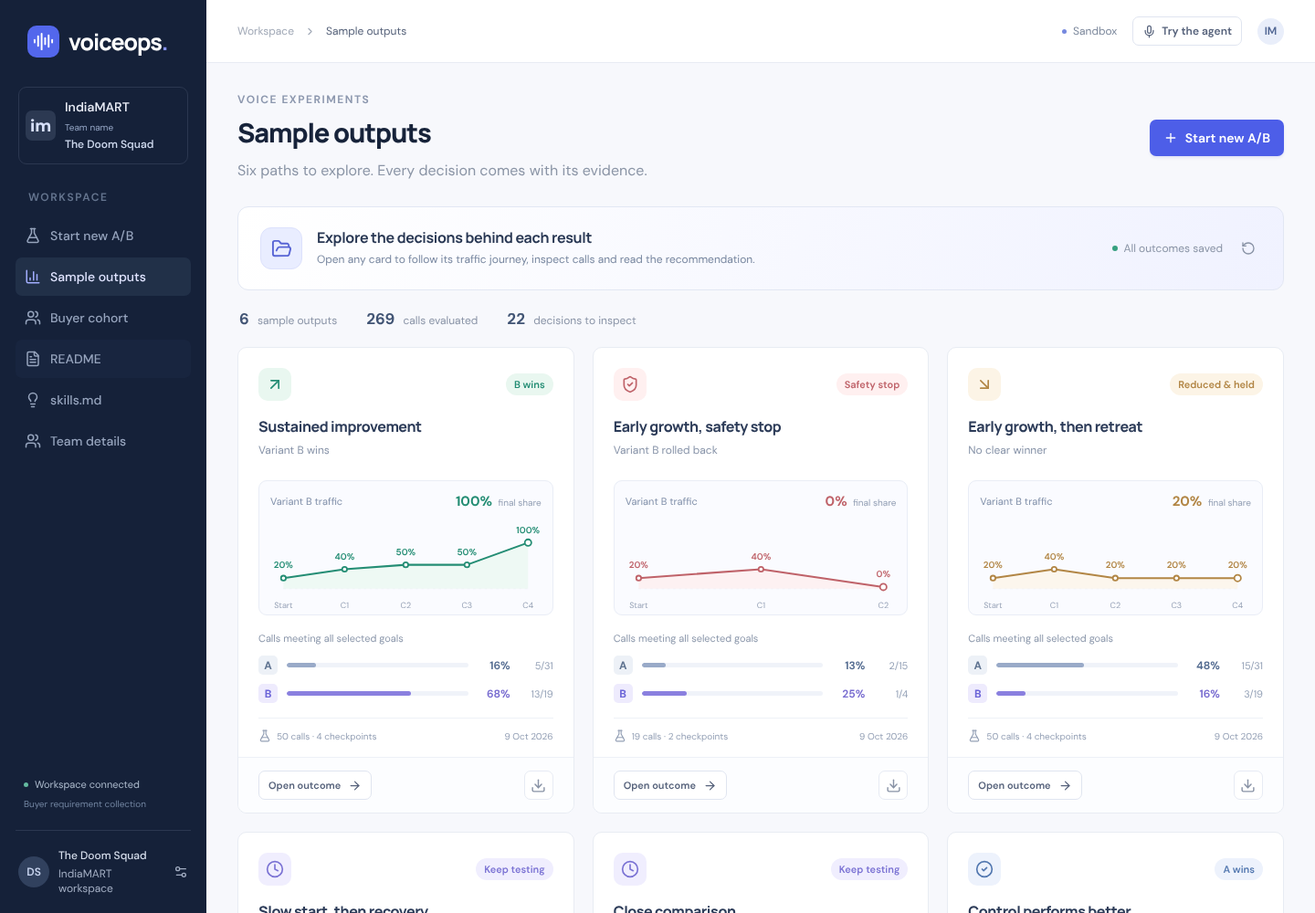
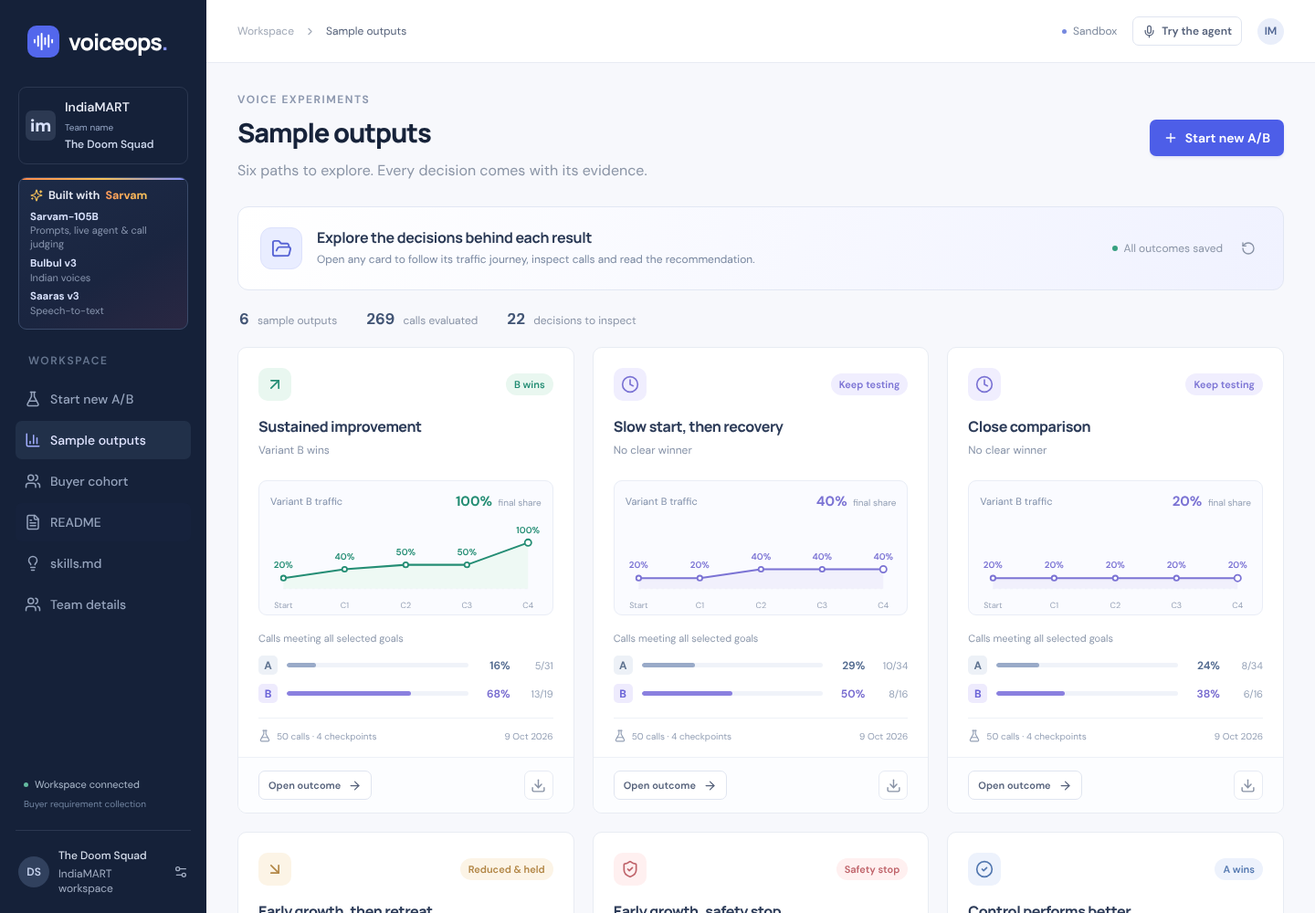
Dedupe sample outputs, combine prompt chips, guide the run, show Sarvam badge
- Sample outputs shows one card per scenario, keeping the earliest saved
  run (the prepared sample), with B wins first. New sandbox runs rotate
  through the same scenarios and were listed as duplicates. The API now
  returns finished experiments oldest first so the prepared samples stay
  in the 25-row window.
- Suggestion chips toggle and combine into one challenger.
- Starting an experiment scrolls to Experiment activity, then to the
  traffic chart at the first checkpoint, then to Traffic decisions when
  the test ends, with an animated button to Results & recommendation.
  Scrolling by hand stops the guidance.
- A "Built with Sarvam" card sits under the team card in the sidebar,
  and a compact pill shows in the top bar on phones.

Claude-Session: https://claude.ai/code/session_01SwVyt2ijvLN4WH9YwcgAyJ

diff --git a/dashboard/src/main.tsx b/dashboard/src/main.tsx
@@ -2,7 +2,7 @@ import React, {useState,useEffect,useRef,lazy,Suspense} from 'react';
 import {createRoot} from 'react-dom/client';
 import {Activity,ArrowDown,ArrowRight,ArrowUp,ArrowUpRight,AudioLines,BarChart3,Check,CheckCircle2,ChevronDown,ChevronRight,Clock,Download,FlaskConical,Footprints,Headphones,Lightbulb,Loader2,Mic,MoreHorizontal,Package,Pause,Play,Plus,Radio,RotateCcw,Search,Send,ShieldCheck,Shirt,Sparkles,Square,Users,Volume2,X,Zap,Armchair,Droplets,FileText,Settings2,AlertTriangle} from 'lucide-react';
 import {products,personas,baselinePrompt,fixture,aggregate,decide,batchPlan,buyerGoals,defaultGoals,defaultRollout,goalLabel,callMeetsGoal,type GoalSelection,type RolloutOptions} from '../shared/domain.mjs';
-import {preparedPrompt,promptPresets} from '../shared/prompt-presets.mjs';
+import {preparedCombination,selectedPresetIds} from '../shared/prompt-presets.mjs';
 import {selectDemoScenario} from '../shared/demo-scenarios.mjs';
 import '@fontsource-variable/dm-sans';
 import '@fontsource-variable/manrope';
@@ -15,8 +15,10 @@ import {CallTable} from './DecisionAudit';
 import {experimentPDF} from '../shared/report-pdf.mjs';
 import type {ReportRun} from '../shared/report-pdf.mjs';
 import {SavedOutcomes,type SavedOutcome} from './SavedOutcomes';
+import {useRunTour,ResultsJump} from './RunTour';
 import {TeamDetails,team} from './TeamDetails';
 import './workspace-guide.css';
+import './sarvam-card.css';
 const WorkspaceGuide=lazy(()=>import('./WorkspaceGuide').then(m=>({default:m.WorkspaceGuide})));
 import {advanceExperiment as advance,completeExperiment} from '../shared/experiment-run.mjs';
 import {RolloutChart,RolloutJourney,GoalMetrics,Results} from './ExperimentDetails';
@@ -55,6 +57,7 @@ function App(){
   const [viewPrompt,setViewPrompt]=useState<'A'|'B'|null>(null);
   const [frozenReview,setFrozenReview]=useState(false);
   const saves=useRef(Promise.resolve());
+  const tourRun=useRef<string|null>(null);
   const saveRevision=useRef(0);
   const restoredId=useRef<string|null>(null);
   const prepared=personas.flatMap(p=>[fixture(p.id,'A'),fixture(p.id,'B'),fixture(p.id,'B','regression')]);
@@ -87,15 +90,17 @@ function App(){
   function start(){
     if(locked)return;if(!ready){setError('Calls are still being prepared. Please try again shortly.');return;}if(initial>maximum){setError("Initial B traffic must be at or below the maximum allocation.");return;}if(!promptA.trim()||!promptB.trim()){setError('Both prompt variants need content.');return;}if(Array.isArray(goal)&&!goal.length){setError('Select at least one collection goal.');return;}
     const preset=selectDemoScenario(location.search);restoredId.current=null;
-    setError('');const run:Experiment={id:crypto.randomUUID(),name:preset.name,scenario:preset.id,status:'running',calls:[],decisions:[],allocation:initial,initial,maximum,automatic,round:0,queue:batchPlan(0,initial,preset.id,preset.seed),cursor:0,progress:0,promptA,promptB,improvement,source,goal,rollout:{...rollout},windowHours,seed:preset.seed,startedAt:new Date().toISOString(),endsAt:new Date(Date.now()+windowHours*3600000).toISOString()};setExp(run);setStep(3);navigate('experiments');
+    setError('');const run:Experiment={id:crypto.randomUUID(),name:preset.name,scenario:preset.id,status:'running',calls:[],decisions:[],allocation:initial,initial,maximum,automatic,round:0,queue:batchPlan(0,initial,preset.id,preset.seed),cursor:0,progress:0,promptA,promptB,improvement,source,goal,rollout:{...rollout},windowHours,seed:preset.seed,startedAt:new Date().toISOString(),endsAt:new Date(Date.now()+windowHours*3600000).toISOString()};tourRun.current=run.id;setExp(run);setStep(3);navigate('experiments');
     if(status?.database==='ready')for(const [label,content]of [['Variant A',promptA],['Variant B',promptB]])api('prompts/save',{label,content,improvement:label==='Variant B'?improvement:'',model:source==='Sarvam'?model:null}).catch(e=>setError(e.message));
   }
   const startRef=useRef(start);startRef.current=start;
   useEffect(()=>{const key=(e:KeyboardEvent)=>{const el=e.target as HTMLElement;if(e.key==='Enter'&&page==='experiments'&&step===2&&!['INPUT','TEXTAREA','SELECT','BUTTON','SUMMARY'].includes(el.tagName)&&!live&&!selected&&!viewPrompt){e.preventDefault();startRef.current();}};window.addEventListener('keydown',key);return()=>window.removeEventListener('keydown',key);},[page,step,live,selected,viewPrompt]);
   useEffect(()=>{window.scrollTo({top:0,behavior:'instant'});if(page==='experiments')document.querySelector<HTMLElement>('.stage-title')?.focus({preventScroll:true});},[step,page]);
   useEffect(()=>{const ctx=(document as any).modelContext;if(!ctx?.registerTool)return;const lifecycle=new AbortController();Promise.resolve(ctx.registerTool({name:'get_experiment_results',description:'Read the current synthetic replay experiment metrics and rollout decisions.',inputSchema:{type:'object',properties:{},additionalProperties:false},annotations:{readOnlyHint:true},execute:()=>({status:exp?.status||'ready',synthetic:true,calls:exp?.calls.length||0,A:aggregate(exp?.calls||[],'A',exp?.goal||goal),B:aggregate(exp?.calls||[],'B',exp?.goal||goal),decisions:exp?.decisions||[]})},{signal:lifecycle.signal})).catch(()=>{});return()=>lifecycle.abort();},[exp]);
-  async function generate(){setGenerating(true);setError('');try{const preset=promptPresets.find(p=>p.request===improvement);if(preset){useSuggestion(preset.id);return;}const d=await api('prompts/generate',{baseline:promptA,improvement,model});setPromptB(d.prompt);setCandidateRequest(improvement);setChanges(Array.isArray(d.changes)?d.changes:[]);setHypothesis(d.hypothesis||'');setSource('Sarvam');setNotice('Variant B generated. Review the changes before starting.');}catch(e){setError((e as Error).message);}finally{setGenerating(false);}}
-  function useSuggestion(id:string){const preset=preparedPrompt(id,promptA);setPromptB(preset.prompt);setImprovement(preset.request);setCandidateRequest(preset.request);setChanges(preset.changes);setHypothesis(preset.hypothesis);setSource('Saved suggestion');setError('');}
+  async function generate(){setGenerating(true);setError('');try{const presetIds=selectedPresetIds(improvement);if(presetIds.length&&preparedCombination(presetIds,promptA).request===improvement){applySuggestions(presetIds);return;}const d=await api('prompts/generate',{baseline:promptA,improvement,model});setPromptB(d.prompt);setCandidateRequest(improvement);setChanges(Array.isArray(d.changes)?d.changes:[]);setHypothesis(d.hypothesis||'');setSource('Sarvam');setNotice('Variant B generated. Review the changes before starting.');}catch(e){setError((e as Error).message);}finally{setGenerating(false);}}
+  function applySuggestions(ids:string[]){setError('');if(!ids.length){setPromptB('');setImprovement('');setCandidateRequest('');setChanges([]);setHypothesis('');setSource('Draft');return;}const preset=preparedCombination(ids,promptA);setPromptB(preset.prompt);setImprovement(preset.request);setCandidateRequest(preset.request);setChanges(preset.changes);setHypothesis(preset.hypothesis);setSource('Saved suggestion');}
+  // Chips toggle: each click adds or removes one reviewed suggestion from the current challenger.
+  function useSuggestion(id:string){const current=promptB.trim()?selectedPresetIds(candidateRequest):[];applySuggestions(current.includes(id)?current.filter(x=>x!==id):[...current,id]);}
   function newDraft(){if(locked)return;setPromptB('');setImprovement('');setCandidateRequest('');setChanges([]);setHypothesis('');setSource('Draft');setStep(1);setAllCallsOpen(false);setError('');}
   function openPage(next:Page){if(next==='experiments')newDraft();navigate(next);}
   function openPrompt(v:'A'|'B',frozen=false){setFrozenReview(frozen);setViewPrompt(v);}
@@ -115,11 +120,12 @@ function App(){
   }
   const calls=exp?.calls||[],a=aggregate(calls,'A',exp?.goal||goal),b=aggregate(calls,'B',exp?.goal||goal),total=aggregate(calls,undefined,exp?.goal||goal);
   const current=exp?.status==='running'||exp?.status==='paused'?exp.queue[exp.cursor]:null;
+  const tour=useRunTour(exp?.id,!!exp&&tourRun.current===exp.id&&step===3,exp?.decisions.length||0,exp?.status);
   const shownCalls=calls.filter(c=>(filter==='all'||c.product.id===filter)&&(variantFilter==='all'||c.variant===variantFilter)&&`${c.persona.name} ${c.product.name}`.toLowerCase().includes(query.toLowerCase()));
   const nav=[{id:'experiments',label:'Start new A/B',icon:FlaskConical},{id:'saved',label:'Sample outputs',icon:BarChart3},{id:'cohort',label:'Buyer cohort',icon:Users},{id:'readme',label:'README',icon:FileText},{id:'skills',label:'skills.md',icon:Lightbulb},{id:'team',label:'Team details',icon:Users}];
   return <div className="app-shell">
-    <aside className="sidebar"><a className="brand" href="#" onClick={e=>{e.preventDefault();openPage('experiments');}}><span className="brand-icon"><AudioLines size={23}/></span><span>voiceops<span className="brand-dot">.</span></span></a><div className="workspace"><div className="im-mark">im</div><div><strong>IndiaMART</strong><span className="workspace-team"><small>Team name</small><b>{team.name}</b></span></div><ChevronDown size={14}/></div><div className="nav-caption">WORKSPACE</div><nav>{nav.map(n=><button key={n.id} className={`nav-item ${page===n.id?'selected':''}`} aria-label={n.label} title={n.label} onClick={()=>openPage(n.id as Page)}><n.icon size={18}/>{n.label}</button>)}</nav><div className="sidebar-bottom"><div className="workspace-health"><span><i/> Workspace connected</span><small>Buyer requirement collection</small></div><div className="profile"><span className="avatar">DS</span><div><strong>{team.name}</strong><span>IndiaMART workspace</span></div><Settings2 size={16}/></div></div></aside>
-    <div className="main-shell"><header className="topbar"><div className="breadcrumb">Workspace <ChevronRight size={13}/><span>{nav.find(n=>n.id===page)?.label}</span></div><div className="top-actions"><span className="environment"><i/> Sandbox</span><button className="button secondary small" onClick={()=>setLive(true)}><Mic size={15}/>Try the agent</button><span className="avatar tiny">IM</span></div></header>
+    <aside className="sidebar"><a className="brand" href="#" onClick={e=>{e.preventDefault();openPage('experiments');}}><span className="brand-icon"><AudioLines size={23}/></span><span>voiceops<span className="brand-dot">.</span></span></a><div className="workspace"><div className="im-mark">im</div><div><strong>IndiaMART</strong><span className="workspace-team"><small>Team name</small><b>{team.name}</b></span></div><ChevronDown size={14}/></div><button className="sarvam-card" onClick={()=>openPage('readme')} aria-label="Built with Sarvam. Open the README to see how VoiceOps uses Sarvam."><span className="sarvam-card-title"><Sparkles size={14}/>Built with <b>Sarvam</b></span><span className="sarvam-card-row"><i>Sarvam-105B</i>Prompts, live agent &amp; call judging</span><span className="sarvam-card-row"><i>Bulbul v3</i>Indian voices</span><span className="sarvam-card-row"><i>Saaras v3</i>Speech-to-text</span></button><div className="nav-caption">WORKSPACE</div><nav>{nav.map(n=><button key={n.id} className={`nav-item ${page===n.id?'selected':''}`} aria-label={n.label} title={n.label} onClick={()=>openPage(n.id as Page)}><n.icon size={18}/>{n.label}</button>)}</nav><div className="sidebar-bottom"><div className="workspace-health"><span><i/> Workspace connected</span><small>Buyer requirement collection</small></div><div className="profile"><span className="avatar">DS</span><div><strong>{team.name}</strong><span>IndiaMART workspace</span></div><Settings2 size={16}/></div></div></aside>
+    <div className="main-shell"><header className="topbar"><div className="breadcrumb">Workspace <ChevronRight size={13}/><span>{nav.find(n=>n.id===page)?.label}</span></div><div className="top-actions"><button className="sarvam-pill" onClick={()=>openPage('readme')} aria-label="Built with Sarvam. Open the README."><Sparkles size={13}/><span className="sarvam-pill-lead">Built with</span><b>Sarvam</b></button><span className="environment"><i/> Sandbox</span><button className="button secondary small" onClick={()=>setLive(true)}><Mic size={15}/>Try the agent</button><span className="avatar tiny">IM</span></div></header>
     <main><div className="page-heading"><div><div className="eyebrow">{page==='readme'||page==='skills'?'PRODUCT GUIDES':page==='team'?'WORKSPACE TEAM':'VOICE EXPERIMENTS'}</div><h1>{page==='experiments'?(step===3?'Experiment report':'Start new A/B'):page==='saved'?'Sample outputs':page==='cohort'?'Buyer cohort':page==='readme'?'README':page==='skills'?'skills.md':'Team details'}</h1><p>{page==='experiments'?(step===3?exp?.name:'Improve requirement collection, one experiment at a time.'):page==='saved'?'Six paths to explore. Every decision comes with its evidence.':page==='cohort'?'Buyers and product preferences in your test audience.':page==='readme'?'Your guide to creating, running and reviewing a voice experiment.':page==='skills'?'Product design decisions, architecture and the tools behind VoiceOps.':'Meet The Doom Squad, the team behind VoiceOps.'}</p></div><div className="heading-actions">{page==='experiments'?(step===3?<button className="button secondary" disabled={locked} onClick={newDraft}><Plus size={16}/>New experiment</button>:<span className="experiment-heading-note"><FlaskConical size={16}/>Requirement recovery</span>):<button className="button primary" onClick={()=>openPage('experiments')}><Plus size={16}/>{locked?'Open experiment':'Start new A/B'}</button>}</div></div>
     {error&&<div className="banner error"><AlertTriangle size={17}/><span>{error}</span><button onClick={()=>setError('')} aria-label="Dismiss error"><X size={16}/></button></div>}
     {status?.database==='unavailable'&&<div className="banner setup"><Activity size={17}/><span>Supabase setup pending. Run <strong>dashboard/supabase/schema.sql</strong> in the SQL Editor. Replay is ready; saving needs the tables.</span><button className="text-button" onClick={refresh}>Check again</button></div>}
@@ -132,15 +138,16 @@ function App(){
       <RunHeading status={exp.status} calls={calls.length} goal={exp.goal} initial={exp.initial} onReview={v=>openPrompt(v,true)}/>
 
       <GoalMetrics calls={calls} goal={exp?.goal||goal}/>
-      <div className="run-monitor-grid"><section className="panel monitor"><div className="panel-heading"><div className="heading-inline"><h2>Experiment activity</h2>{exp?.status==='running'&&<span className="badge green"><i/>Running</span>}</div><div className="monitor-actions">{locked&&<button className="icon-button" aria-label={exp?.status==='paused'?'Resume experiment':'Pause experiment'} onClick={()=>setExp(e=>e?{...e,status:e.status==='running'?'paused':'running'}:e)}>{exp?.status==='paused'?<Play size={16}/>:<Pause size={16}/>}</button>}</div></div>
+      <div className="run-monitor-grid"><section id="experiment-activity" className="panel monitor"><div className="panel-heading"><div className="heading-inline"><h2>Experiment activity</h2>{exp?.status==='running'&&<span className="badge green"><i/>Running</span>}</div><div className="monitor-actions">{locked&&<button className="icon-button" aria-label={exp?.status==='paused'?'Resume experiment':'Pause experiment'} onClick={()=>setExp(e=>e?{...e,status:e.status==='running'?'paused':'running'}:e)}>{exp?.status==='paused'?<Play size={16}/>:<Pause size={16}/>}</button>}</div></div>
       <div className="live-call">{current?<><span className={`call-avatar ${current.variant==='B'?'purple':''}`}><ProductIcon productId={current.product.id} size={22}/></span><div><strong>{current.persona.name}</strong><span>{current.product.name} · {current.persona.city}</span></div><span className={`variant-tag ${current.variant==='A'?'a':'b'}`}>{current.variant}</span><div className="live-call-wave"><Wave active={exp?.status==='running'}/><span>{(exp?.progress||0)<25?'Connecting…':(exp?.progress||0)<100?(current.answered?'Conversation in progress…':'Ringing · no answer…'):'Checking goals…'}</span></div></>:<><span className="call-avatar"><Headphones size={22}/></span><div><strong>{exp?.status==='completed'?'Test complete':'Ready to begin'}</strong><span>{exp?.status==='completed'?`${calls.length} calls evaluated`:'Start to replay prepared conversations from both variants'}</span></div><Wave/></>}</div>
       <CallTable calls={calls.slice(-5).reverse()} allCalls={calls} goal={exp.goal} onSelect={setSelected}/><div className="panel-footer"><span>{calls.length} calls evaluated <span className="dot-separator">·</span> {sync}</span><button className="text-button" aria-expanded={allCallsOpen} onClick={()=>setAllCallsOpen(!allCallsOpen)}>{allCallsOpen?'Hide call list':'View all calls'}</button></div></section>
       <aside className="panel run-pulse"><div className="panel-heading"><h2>Experiment status</h2><span className={`badge ${exp.status==='running'?'green':''}`}><i/>{exp.status==='completed'?'Complete':exp.status==='paused'?'Paused':'Running'}</span></div><div className="pulse-progress"><strong>{calls.length}</strong><p>calls evaluated</p><progress value={calls.length} max="50"/></div><div className="pulse-variants"><div><span className="variant-tag a">A</span><span>Successful calls</span><strong>{a.goals}<small> / {a.count}</small></strong></div><div><span className="variant-tag b">B</span><span>Successful calls</span><strong>{b.goals}<small> / {b.count}</small></strong></div></div><div className="pulse-facts"><div><FlaskConical size={16}/><span>Rollout</span><strong>{exp.automatic?'Automatic':'Review first'}</strong></div><div><ShieldCheck size={16}/><span>Safety</span><strong>{total.violations?'B stopped':'No issues'}</strong></div></div><div className="pulse-next"><span className="stage-kicker">LATEST DECISION</span><strong>{exp.decisions.at(-1)?.title||'Collecting results'}</strong><p>{exp.decisions.at(-1)?.reason||'Waiting for enough calls to compare A and B.'}</p></div></aside></div>
       {allCallsOpen&&<section id="all-experiment-calls" className="panel experiment-all-calls" aria-label="All experiment calls"><div className="panel-heading"><div><h2>All experiment calls</h2><p>Inspect every buyer, assignment and selected goal.</p></div><div className="table-filters"><label className="search-box"><Search size={15}/><input aria-label="Search calls" placeholder="Search buyer or product" value={query} onChange={e=>setQuery(e.target.value)}/></label><select aria-label="Filter calls by product" value={filter} onChange={e=>setFilter(e.target.value)}><option value="all">All products</option>{products.map(p=><option key={p.id} value={p.id}>{p.name}</option>)}</select><select aria-label="Filter calls by variant" value={variantFilter} onChange={e=>setVariantFilter(e.target.value)}><option value="all">Both variants</option><option>A</option><option>B</option></select><button className="icon-button" aria-label="Close call list" onClick={()=>setAllCallsOpen(false)}><X size={16}/></button></div></div><CallTable calls={[...shownCalls].reverse()} allCalls={calls} goal={exp.goal} onSelect={setSelected}/></section>}
-      <div className="run-section-heading"><div><span className="stage-kicker">THE ROLLOUT</span><h2>Traffic allocation</h2><p>How B’s target changed as the evidence grew.</p></div><span className="badge purple">{exp.decisions.length} / 4 checkpoints</span></div>
+      <div id="traffic-allocation" className="run-section-heading"><div><span className="stage-kicker">THE ROLLOUT</span><h2>Traffic allocation</h2><p>How B’s target changed as the evidence grew.</p></div><span className="badge purple">{exp.decisions.length} / 4 checkpoints</span></div>
       <section className="panel rollout-overview"><div className="rollout-graph"><div className="rollout-graph-title"><strong>Variant B traffic</strong><span><i/>Target allocation</span></div><RolloutChart decisions={exp.decisions} initial={exp.initial} wide/></div><div className="rollout-readout"><div className="allocation-summary"><div><span>{exp.status==='completed'?'Final B traffic':'Next B traffic'}</span><strong>{exp.allocation}%</strong></div><div><span>Actual B assignments</span><strong>{b.count}<small> / {calls.length} calls</small></strong></div></div><div className="evidence-summary"><ShieldCheck size={20}/><div><strong>{exp.decisions.at(-1)?.title||'Waiting for results'}</strong><p>{exp.decisions.at(-1)?.reason||'Compare calls against your selected goals before changing traffic.'}</p></div></div></div></section>
       <RolloutJourney key={exp.id} exp={exp} initial={exp.initial} windowHours={exp.windowHours} onSelect={setSelected}/>
       <section id="experiment-outcome" className="embedded-outcome"><div className="run-section-heading"><div><span className="stage-kicker">THE OUTCOME</span><h2>Results & recommendation</h2><p>See which goals improved and what happens next.</p></div>{exp.status==='completed'&&<button className="button secondary" onClick={download}><Download size={16}/>Export PDF</button>}</div>{exp.status==='completed'?<Results exp={exp} onSelect={setSelected} onDownload={download} embedded/>:<div className="panel outcome-pending"><span className="outcome-pending-icon"><FileText size={25}/></span><div><strong>Results are being collected</strong><p>The result and recommendation appear here when the experiment ends.</p></div><span className="badge">{calls.length} calls evaluated</span></div>}</section>
+      {tour.showJump&&<ResultsJump onDone={tour.hideJump}/>}
       </div>}
 
     </>}

diff --git a/dashboard/src/ExperimentJourney.tsx b/dashboard/src/ExperimentJourney.tsx
@@ -1,7 +1,7 @@
 import {useEffect,useState} from 'react';
 import {ArrowDown,ArrowLeft,ArrowRight,ArrowUp,Check,CheckCircle2,ChevronRight,Clock,FileText,FlaskConical,GitCompareArrows,Loader2,LockKeyhole,Play,ShieldCheck,Sparkles,Users,Zap} from 'lucide-react';
 import {buyerGoals} from '../shared/domain.mjs';
-import {promptPresets} from '../shared/prompt-presets.mjs';
+import {promptPresets,selectedPresetIds} from '../shared/prompt-presets.mjs';
 import type {RolloutOptions,GoalSelection} from '../shared/domain.mjs';
 
 export type JourneyStep=1|2|3;
@@ -33,7 +33,7 @@ type PromptProps={promptA:string;promptB:string;improvement:string;acceptedReque
 export function PromptStep(p:PromptProps){
  const [editing,setEditing]=useState(false),[view,setView]=useState<'diff'|'full'>('diff');
  useEffect(()=>{if(p.promptB.trim()&&p.acceptedRequest===p.improvement)setEditing(false);},[p.promptB,p.acceptedRequest]);
- const hasB=!!p.promptB.trim(),requestVisible=!hasB||editing;
+ const hasB=!!p.promptB.trim(),requestVisible=!hasB||editing,chosenIds=selectedPresetIds(p.acceptedRequest);
  const rows=hasB?promptDiff(p.promptA,p.promptB):[],added=rows.filter(r=>r.kind==='added'&&r.text.trim()).length,removed=rows.filter(r=>r.kind==='removed'&&r.text.trim()).length;
  function request(text:string){setEditing(true);p.onRequest(text);}
  return <div className="journey-stage" key="prompts">
@@ -45,7 +45,7 @@ export function PromptStep(p:PromptProps){
     <div className="prompt-protection"><ShieldCheck size={17}/><div><strong>Built-in collection guardrails</strong><p>Buying intent, one question at a time, honest capture and respectful refusals.</p></div></div>
    </section>
    <section className={`panel journey-prompt-card challenger ${hasB?'has-prompt':''}`}><div className="journey-card-heading"><span className="variant-tag b">B</span><div><h3>Your challenger</h3><p>{hasB?'A focused change, ready for your review':'What would make the conversation better?'}</p></div><Sparkles size={21}/></div>
-    <div className="suggestion-chips instant-suggestions"><span>{hasB?'Try another improvement':'Choose an improvement'}</span>{promptPresets.map(s=><button key={s.id} className={p.acceptedRequest===s.request&&hasB?'chosen':''} aria-pressed={p.acceptedRequest===s.request&&hasB} disabled={p.generating} onClick={()=>p.onSuggestion(s.id)}>{s.label}{p.acceptedRequest===s.request&&hasB?<Check size={13}/>:<span>+</span>}</button>)}</div>
+    <div className="suggestion-chips instant-suggestions"><span>{hasB?'Add or remove improvements':'Choose one or more improvements'}</span>{promptPresets.map(s=>{const on=hasB&&chosenIds.includes(s.id);return <button key={s.id} className={on?'chosen':''} aria-pressed={on} disabled={p.generating} onClick={()=>p.onSuggestion(s.id)}>{s.label}{on?<Check size={13}/>:<span>+</span>}</button>;})}</div>
     {requestVisible&&<div className="challenger-request"><label htmlFor="improvement">Describe the improvement</label><textarea id="improvement" placeholder="e.g. Buyers sound busy. Make the flow shorter and skip details they already gave…" value={p.improvement} disabled={p.generating} maxLength={1500} onChange={e=>request(e.target.value)} rows={4}/>
      <div className="challenger-generate"><button className="button primary" onClick={p.onGenerate} disabled={p.generating||!p.improvement.trim()||!p.model}>{p.generating?<Loader2 size={16} className="spin"/>:<Sparkles size={16}/>} {p.generating?'Writing your challenger…':hasB?'Regenerate variant B':'Generate variant B'}</button>{editing&&hasB&&<button className="text-button" onClick={()=>{p.onRequest(p.acceptedRequest);setEditing(false);}}>Keep current variant</button>}</div>
      <details className="generator-options"><summary>Writing options</summary><label>Prompt writer<select aria-label="Prompt writer model" disabled={p.generating} value={p.model} onChange={e=>p.onModel(e.target.value)}>{!p.models.length&&<option>Loading models…</option>}{p.models.map(m=><option key={m.id} value={m.id}>{m.name}</option>)}</select></label><button className="text-button" disabled={p.generating} onClick={()=>p.onEdit('B')}>Write B manually</button></details>

diff --git a/dashboard/src/SavedOutcomes.tsx b/dashboard/src/SavedOutcomes.tsx
@@ -1,5 +1,6 @@
 import {ArrowDownRight,ArrowRight,ArrowUpRight,CheckCircle2,Clock,Download,FlaskConical,FolderOpen,Loader2,RotateCcw,ShieldCheck} from 'lucide-react';
 import {aggregate} from '../shared/domain.mjs';
+import {demoScenarios} from '../shared/demo-scenarios.mjs';
 import type {ReplayRun} from '../shared/experiment-run.mjs';
 import './saved-outcomes.css';
 
@@ -15,13 +16,24 @@ function outcomeKind(run:ReplayRun){
  return {label:'Keep testing',tone:'testing',Icon:Clock};
 }
 
+// Library order: B wins first, then open results, retreats, safety stops and A wins.
+const kindRank:Record<string,number>={winner:0,testing:1,retreat:2,stopped:3,control:4};
+const scenarioRank=(id:string)=>{const i=demoScenarios.findIndex(s=>s.id===id);return i<0?demoScenarios.length:i;};
+// One card per scenario. New sandbox runs rotate through the same scenarios, so keep the earliest
+// saved run of each (the prepared sample) instead of listing every repeat.
+export function librarySamples(outcomes:SavedOutcome[]){
+ const first=new Map<string,SavedOutcome>();
+ for(const h of outcomes){if(h.status!=='completed'&&h.status!=='stopped')continue;const prev=first.get(h.scenario);if(!prev||h.created_at<prev.created_at)first.set(h.scenario,h);}
+ return [...first.values()].sort((x,y)=>kindRank[outcomeKind(x.payload).tone]-kindRank[outcomeKind(y.payload).tone]||scenarioRank(x.scenario)-scenarioRank(y.scenario));
+}
+
 function TrafficPreview({run}:{run:ReplayRun}){
  const values=[run.initial,...run.decisions.map(d=>d.allocation)],x=(i:number)=>16+i*298/Math.max(1,values.length-1),y=(v:number)=>90-v*.54,points=values.map((v,i)=>`${x(i)},${y(v)}`).join(' ');
  return <div className="saved-traffic"><div><span>Variant B traffic</span><strong>{run.allocation}% <small>final share</small></strong></div><svg viewBox="0 0 330 124" role="img" aria-label={`B traffic: ${values.join(', ')} percent`}><line x1="16" x2="314" y1="92" y2="92" className="saved-chart-axis"/><polygon points={`16,92 ${points} ${x(values.length-1)},92`} className="saved-chart-fill"/><polyline points={points} className="saved-chart-line"/>{values.map((v,i)=><g key={i}><circle cx={x(i)} cy={y(v)} r={i===values.length-1?4:3}/><text x={x(i)} y={y(v)-12} textAnchor="middle" className="saved-chart-value">{v}%</text><text x={x(i)} y="116" textAnchor="middle" className="saved-chart-label">{i?`C${i}`:'Start'}</text></g>)}</svg></div>;
 }
 
 export function SavedOutcomes({outcomes,loading,connected,locked,onRefresh,onOpen,onDownload}:Props){
- const complete=outcomes.filter(h=>h.status==='completed'||h.status==='stopped'),calls=complete.reduce((n,h)=>n+h.payload.calls.length,0),checkpoints=complete.reduce((n,h)=>n+h.payload.decisions.length,0);
+ const complete=librarySamples(outcomes),calls=complete.reduce((n,h)=>n+h.payload.calls.length,0),checkpoints=complete.reduce((n,h)=>n+h.payload.decisions.length,0);
  return <div className="saved-outcomes">
  <div className="saved-library-summary"><div><span className="saved-library-icon"><FolderOpen size={23}/></span><div><strong>Explore the decisions behind each result</strong><p>Open any card to follow its traffic journey, inspect calls and read the recommendation.</p></div></div><div className="saved-library-actions"><span className={`saved-connection ${connected?'connected':''}`}><i/>{connected?'All outcomes saved':'Storage unavailable'}</span><button className="icon-button" onClick={onRefresh} aria-label="Refresh sample outputs"><RotateCcw size={16}/></button></div></div>
  {complete.length>0&&<div className="saved-library-totals"><span><strong>{complete.length}</strong> sample outputs</span><span><strong>{calls}</strong> calls evaluated</span><span><strong>{checkpoints}</strong> decisions to inspect</span></div>}

diff --git a/dashboard/src/RunTour.tsx b/dashboard/src/RunTour.tsx
@@ -1,0 +1,44 @@
+import {useEffect,useRef,useState} from 'react';
+import {createPortal} from 'react-dom';
+import {ArrowDown} from 'lucide-react';
+import './run-tour.css';
+
+const keysThatScroll=['ArrowUp','ArrowDown','PageUp','PageDown','Home','End',' '];
+function reveal(id:string){
+ const reduced=matchMedia('(prefers-reduced-motion: reduce)').matches;
+ document.getElementById(id)?.scrollIntoView({behavior:reduced?'auto':'smooth',block:'start'});
+}
+
+// Guides the viewer through a run they just started: activity first, the live traffic chart at the
+// first checkpoint, then the decisions when the test ends. Scrolling by hand hands control back.
+export function useRunTour(runId:string|undefined,active:boolean,checkpoints:number,status:string|undefined){
+ const follow=useRef(false),[showJump,setShowJump]=useState(false);
+ useEffect(()=>{
+  if(!active)return;
+  follow.current=true;setShowJump(false);
+  const stop=(e:Event)=>{if(e instanceof KeyboardEvent&&!keysThatScroll.includes(e.key))return;follow.current=false;};
+  addEventListener('wheel',stop,{passive:true});addEventListener('touchmove',stop,{passive:true});addEventListener('keydown',stop);
+  const timer=setTimeout(()=>{if(follow.current)reveal('experiment-activity');},150);
+  return ()=>{clearTimeout(timer);removeEventListener('wheel',stop);removeEventListener('touchmove',stop);removeEventListener('keydown',stop);};
+ },[runId,active]);
+ useEffect(()=>{if(active&&checkpoints===1&&follow.current)reveal('traffic-allocation');},[checkpoints,active]);
+ const ended=status==='completed'||status==='stopped';
+ useEffect(()=>{
+  if(!active||!ended)return;
+  const timer=setTimeout(()=>{if(follow.current)reveal('traffic-decisions');setShowJump(true);},400);
+  return ()=>clearTimeout(timer);
+ },[ended,active]);
+ return {showJump,hideJump:()=>setShowJump(false)};
+}
+
+export function ResultsJump({onDone}:{onDone:()=>void}){
+ const [outcomeVisible,setOutcomeVisible]=useState(false);
+ useEffect(()=>{
+  const target=document.getElementById('experiment-outcome');if(!target)return;
+  const observer=new IntersectionObserver(([entry])=>setOutcomeVisible(entry.isIntersecting),{threshold:.25});
+  observer.observe(target);return ()=>observer.disconnect();
+ },[]);
+ if(outcomeVisible)return null;
+ // Portal to body: the animated run stage keeps a transform, which would pin a fixed button to the stage.
+ return createPortal(<button className="results-jump" onClick={()=>{reveal('experiment-outcome');onDone();}}>See results &amp; recommendation<ArrowDown size={17}/></button>,document.body);
+}

diff --git a/dashboard/src/sarvam-card.css b/dashboard/src/sarvam-card.css
@@ -1,0 +1,14 @@
+.sarvam-card{margin:-14px 3px 26px;padding:11px 12px 12px;border:1px solid #3b4b6b;border-radius:9px;background:linear-gradient(150deg,#1d2b47,#1a2540 60%,#2a2742);color:#a9b5cb;text-align:left;display:grid;gap:6px;position:relative;overflow:hidden}
+.sarvam-card::before{content:'';position:absolute;inset:0 0 auto;height:2px;background:linear-gradient(90deg,#ff8a4c,#f7c25a,#7d8bff)}
+.sarvam-card:hover{border-color:#56688f;background:linear-gradient(150deg,#22324f,#1d2945 60%,#2f2b4a)}
+.sarvam-card-title{display:flex;align-items:center;gap:6px;color:#e8ebf5;font-size:12.5px;font-weight:600;margin-bottom:2px}
+.sarvam-card-title svg{color:#f7c25a}
+.sarvam-card-title b{font-weight:800;background:linear-gradient(90deg,#ff9a5a,#f7c25a);-webkit-background-clip:text;background-clip:text;color:transparent}
+.sarvam-card-row{display:grid;font-size:11px;line-height:1.35;color:#8a97b0}
+.sarvam-card-row i{font-style:normal;font-weight:650;color:#d8e1fc;font-size:11.5px}
+@media(max-width:760px){.sarvam-card{display:none}}
+.sarvam-pill{display:none;align-items:center;gap:5px;border:1px solid #f3d9b8;background:#fff8ef;color:#7a4b16;border-radius:999px;padding:5px 10px;font-size:11.5px;font-weight:600;white-space:nowrap}
+.sarvam-pill svg{color:#e8902f}
+.sarvam-pill b{font-weight:800;color:#c4661c}
+@media(max-width:760px){.sarvam-pill{display:inline-flex}}
+@media(max-width:480px){.topbar .breadcrumb{display:none}.topbar{justify-content:flex-end}}

diff --git a/dashboard/src/ExperimentDetails.tsx b/dashboard/src/ExperimentDetails.tsx
@@ -29,7 +29,7 @@ export function RolloutJourney({exp,initial,onSelect}:{exp:Run|null;initial:numb
  useEffect(()=>{if(inspecting!==null)inspector.current?.scrollIntoView({behavior:window.matchMedia('(prefers-reduced-motion: reduce)').matches?'auto':'smooth',block:'start'});},[inspecting]);
  const snapshot=exp&&inspecting!==null?checkpointCalls(exp.calls,exp.decisions,inspecting,scope):[];
  const filtered=snapshot.filter(c=>variant==='all'||c.variant===variant),rounds=exp?experimentRounds(exp):[];
- return <><section className="panel journey-panel audit-journey"><div className="panel-heading"><div><h2>Traffic decisions</h2><p>Follow the traffic, results and decision at every stage.</p></div><span className="badge purple">{exp?.decisions.length||0} checkpoints</span></div>
+ return <><section id="traffic-decisions" className="panel journey-panel audit-journey"><div className="panel-heading"><div><h2>Traffic decisions</h2><p>Follow the traffic, results and decision at every stage.</p></div><span className="badge purple">{exp?.decisions.length||0} checkpoints</span></div>
  <div className="stage-guide"><span><i>1</i> Traffic entering the stage</span><ArrowRight size={14}/><span><i>2</i> New calls & goal results</span><ArrowRight size={14}/><span><i>3</i> Checkpoint decision</span></div>
  <div className="traffic-stages">
  {rounds.map((r,i)=>{

diff --git a/dashboard/src/run-tour.css b/dashboard/src/run-tour.css
@@ -1,0 +1,9 @@
+#experiment-activity,#traffic-allocation,#traffic-decisions,#experiment-outcome{scroll-margin-top:20px}
+.results-jump{position:fixed;right:28px;bottom:28px;z-index:30;display:flex;align-items:center;gap:9px;padding:13px 20px;border:0;border-radius:999px;background:var(--indigo);color:#fff;font-weight:650;font-size:13.5px;box-shadow:0 10px 26px #4d5ee84d,0 2px 6px #17233a26;animation:results-jump-in .45s cubic-bezier(.2,.9,.3,1.2) both,results-jump-pulse 2.2s ease-in-out .6s infinite}
+.results-jump:hover{background:#3f4fd6}
+.results-jump svg{animation:results-jump-nudge 1.1s ease-in-out .6s infinite}
+@keyframes results-jump-in{from{opacity:0;transform:translateY(18px) scale(.94)}to{opacity:1;transform:none}}
+@keyframes results-jump-pulse{0%,100%{box-shadow:0 10px 26px #4d5ee84d,0 0 0 0 #4d5ee866}55%{box-shadow:0 10px 26px #4d5ee84d,0 0 0 12px #4d5ee800}}
+@keyframes results-jump-nudge{0%,100%{transform:none}50%{transform:translateY(3px)}}
+@media(max-width:700px){.results-jump{left:16px;right:16px;bottom:16px;justify-content:center}}
+@media(prefers-reduced-motion:reduce){.results-jump,.results-jump svg{animation:none}}

diff --git a/dashboard/worker/index.js b/dashboard/worker/index.js
@@ -94,7 +94,7 @@ export default {async fetch(request,env){
     }
     if(request.method==='GET'&&url.pathname==='/api/models')return json(await models());
     if(request.method==='GET'&&url.pathname==='/api/prompts')return json(await supabase(env,'voiceops_prompts?order=created_at.desc&limit=30'));
-    if(request.method==='GET'&&url.pathname==='/api/experiments')return json(await supabase(env,'voiceops_experiments?order=created_at.desc&limit=25'));
+    if(request.method==='GET'&&url.pathname==='/api/experiments')return json(await supabase(env,'voiceops_experiments?status=in.(completed,stopped)&order=created_at.asc&limit=25'));
     if(request.method!=='POST')return json({error:'Not found'},404);
     if(url.pathname==='/api/transcribe'){
       requireConfig(env,'SARVAM_API_KEY');const form=await request.formData();const audio=form.get('file');

diff --git a/README.md b/README.md
@@ -50,7 +50,7 @@ When you are ready to try the workflow yourself, open [Start new A/B](#/start). 
 
 ## 1. Describe the improvement
 
-**Variant A** is your control: the prompt you are comparing against. **Variant B** is your challenger. You can edit the control, describe an improvement in plain language, or choose a suggested improvement to preview a challenger immediately.
+**Variant A** is your control: the prompt you are comparing against. **Variant B** is your challenger. You can edit the control, describe an improvement in plain language, or pick one or more suggested improvements, which combine into a single challenger you can preview immediately.
 
 For example, choose **Explain unfamiliar specs** to help buyers answer product questions with less friction. For a custom request, describe the behavior you want and select **Generate Variant B**. The prompt writer turns your request into instructions you can inspect and edit.
 
